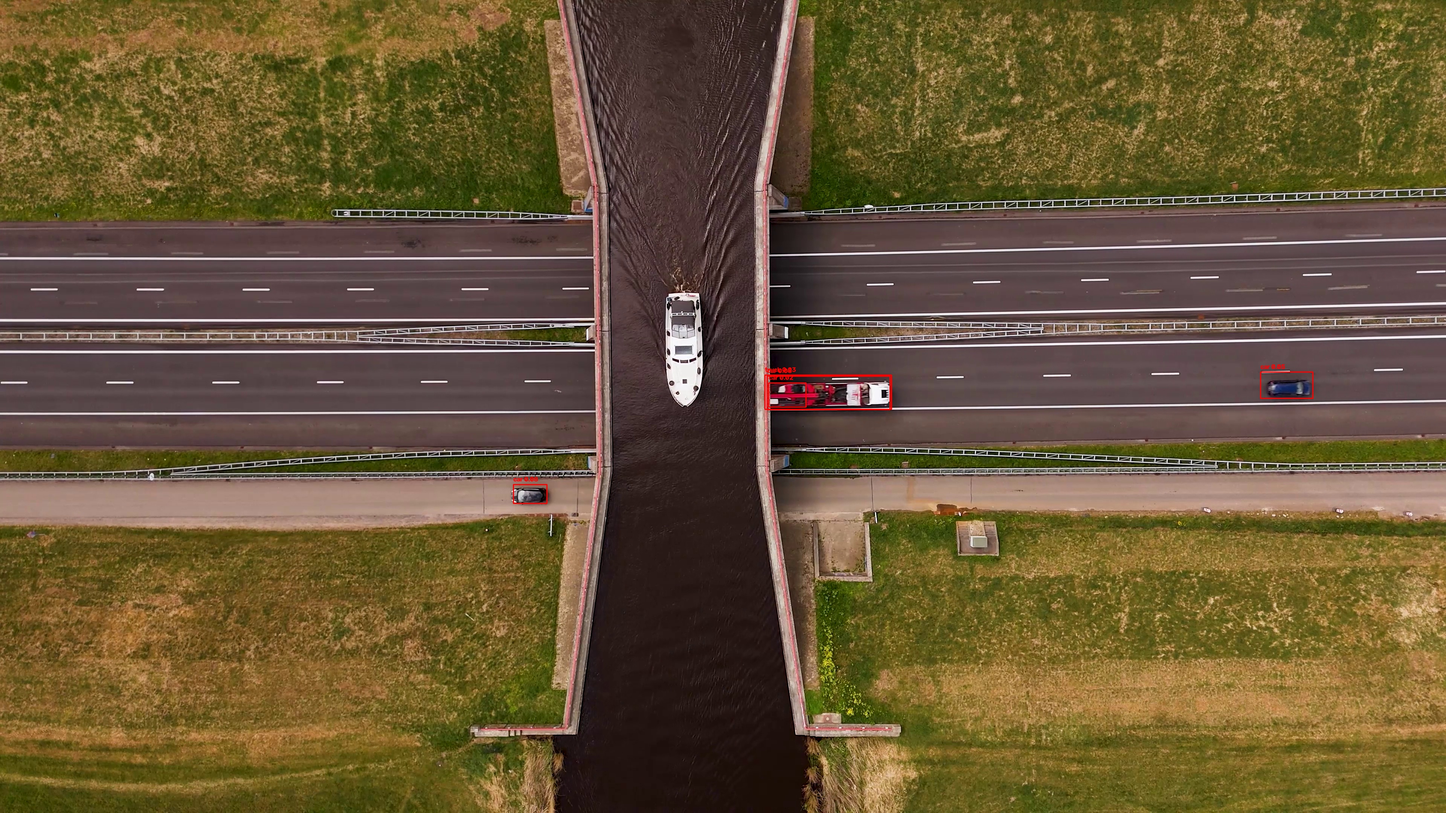
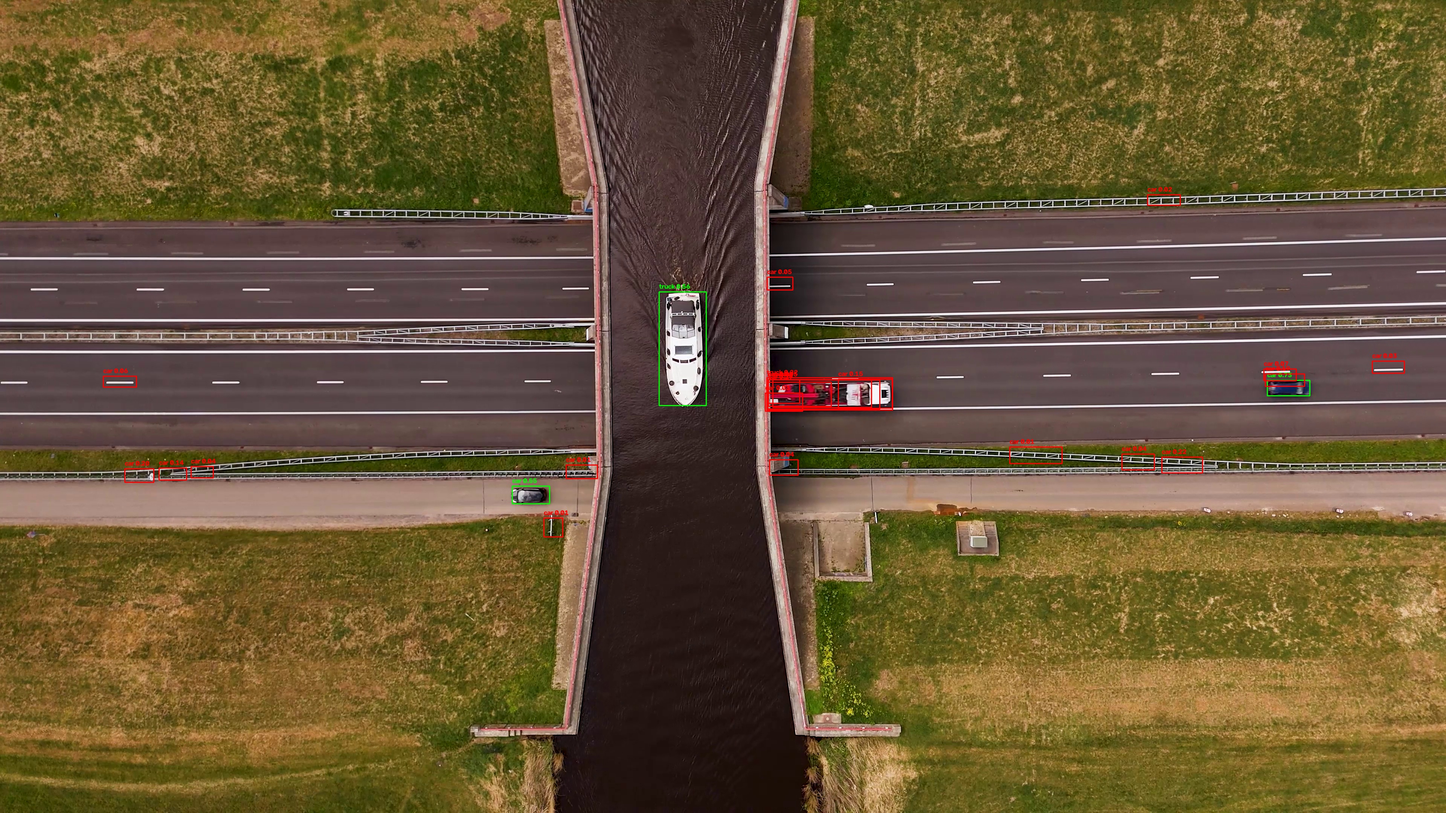
Adopt fine-tuned VisDrone model as default (Phase 15/16 findings)
Decision based on outputs/results/model_comparison.json: fine-tuning
raised overall F1 from 0.275 to 0.652 on VisDrone val (mostly recall,
0.16 -> 0.53), at effectively the same FPS (~54-56). Spot-checked on
our own clips, not just the benchmark set:
  - nadir drone clip (our documented failure case): 0 detections
    (baseline) -> 24 detections at avg conf 0.67 (fine-tuned)
  - elevated clip (main scenario): 6 -> 97 detections on the same
    sampled frames, with higher avg confidence too (0.43 -> 0.59),
    meaning recovered vehicles, not just added noise
Both clips improved with no precision regression worth mentioning, so
this isn't a marginal call. Kept the pretrained baseline weights and
class scheme documented in a config comment for anyone who wants to
switch back or compare further.

Also fixes two real bugs in generate_failure_examples.py found while
regenerating evidence with the new model: (1) vehicle class ids were
hardcoded to the old COCO scheme (1,2,3,5,7) instead of read from
config, silently breaking with the fine-tuned model's own 0-4 ids;
(2) the track-loss example hardcoded track_id=54 from one specific
prior run instead of finding a near-miss dynamically, so it now reuses
RecallChecker in a two-pass search (can't keep every 4K frame in
memory to avoid the second pass).

Updated failure-case evidence: nadir view is a genuinely mixed result
at the specific frame sampled (some vehicles now pass threshold,
[…]

diff --git a/scripts/generate_failure_examples.py b/scripts/generate_failure_examples.py
@@ -22,6 +22,7 @@ import cv2
 sys.path.insert(0, str(Path(__file__).resolve().parents[1]))
 
 from src.counting.line_counter import LineCounter
+from src.evaluation.recall_check import RecallChecker
 from src.tracking.tracker import VehicleTracker
 from src.utils.config import load_config, resolve_path
 from ultralytics import YOLO
@@ -37,6 +38,8 @@ def generate_camera_angle_example(config, out_dir: Path):
         print(f"Could not read from {video_path}, skipping camera-angle example")
         return
 
+    vehicle_class_ids = set(config["classes"]["vehicle_class_ids"])  # model's own id scheme, not hardcoded COCO ids
+
     model = YOLO(config["model"]["weights"])
     results = model.predict(frame, conf=0.01, iou=0.5, imgsz=640, device="0", verbose=False)
     r = results[0]
@@ -44,7 +47,7 @@ def generate_camera_angle_example(config, out_dir: Path):
     annotated = frame.copy()
     for box in r.boxes:
         cid = int(box.cls.item())
-        if cid not in (1, 2, 3, 5, 7):  # vehicle classes only
+        if cid not in vehicle_class_ids:
             continue
         conf = float(box.conf.item())
         x1, y1, x2, y2 = (int(v) for v in box.xyxy[0].tolist())
@@ -55,23 +58,60 @@ def generate_camera_angle_example(config, out_dir: Path):
 
     out_path = out_dir / "camera_angle_nadir_view.jpg"
     cv2.imwrite(str(out_path), annotated)
-    below_threshold = sum(
-        1 for box in r.boxes
-        if int(box.cls.item()) in (1, 2, 3, 5, 7) and float(box.conf.item()) < config["model"]["confidence"]
-    )
-    print(f"Saved {out_path} - {below_threshold} vehicle boxes found but below the "
+    vehicle_boxes = [box for box in r.boxes if int(box.cls.item()) in vehicle_class_ids]
+    below_threshold = sum(1 for box in vehicle_boxes if float(box.conf.item()) < config["model"]["confidence"])
+    print(f"Saved {out_path} - {len(vehicle_boxes)} vehicle boxes found, {below_threshold} below the "
           f"{config['model']['confidence']} confidence threshold (red = rejected, green = would pass)")
 
 
-def generate_track_loss_example(config, out_dir: Path):
-    video_path = resolve_path(config["io"]["video_path"])
+def _run_full_pass(config, video_path):
+    """One full tracker+counter pass over the video. Returns (recall_checker, counter)."""
     tracker = VehicleTracker(config)
     cap = cv2.VideoCapture(str(video_path))
     width = int(cap.get(cv2.CAP_PROP_FRAME_WIDTH))
     height = int(cap.get(cv2.CAP_PROP_FRAME_HEIGHT))
     counter = LineCounter(config, width, height)
+    recall_checker = RecallChecker(threshold_px=120)
 
-    target_id = 54
+    frame_idx = 0
+    while True:
+        ok, frame = cap.read()
+        if not ok:
+            break
+        tracked = tracker.track(frame)
+        counter.update(tracked, frame_idx)
+        recall_checker.observe(tracked, counter)
+        frame_idx += 1
+    cap.release()
+    return recall_checker, counter
+
+
+def generate_track_loss_example(config, out_dir: Path):
+    """Finds a near-miss dynamically (via the same recall-check logic
+    scripts/evaluate.py uses) rather than hardcoding a track id - which
+    model is active, and its confidence/tracking behavior, changes which
+    track (if any) ends up being the closest near-miss.
+
+    Two passes over the video rather than one: the target track id isn't
+    known until the whole video's been seen, and keeping every 4K frame
+    in memory to avoid a second pass would need tens of GB of RAM."""
+    video_path = resolve_path(config["io"]["video_path"])
+
+    recall_checker, counter = _run_full_pass(config, video_path)
+    near_misses = recall_checker.near_misses(counter)
+    if not near_misses:
+        print("No near-miss tracks found in this run - skipping track-loss example "
+              "(not necessarily a problem: it just means every track that got close to "
+              "the line was either counted or stayed far from it)")
+        return
+    target_id = near_misses[0].track_id  # closest to the line without being counted
+
+    tracker = VehicleTracker(config)
+    cap = cv2.VideoCapture(str(video_path))
+    width = int(cap.get(cv2.CAP_PROP_FRAME_WIDTH))
+    height = int(cap.get(cv2.CAP_PROP_FRAME_HEIGHT))
+    counter = LineCounter(config, width, height)  # fresh instance - tracker state doesn't carry over
+
     last_seen_frame = None
     frame_idx = 0
     while True:
@@ -84,13 +124,11 @@ def generate_track_loss_example(config, out_dir: Path):
             if obj.track_id == target_id:
                 last_seen_frame = (frame_idx, frame.copy(), obj)
         frame_idx += 1
-        if last_seen_frame and frame_idx > last_seen_frame[0] + 40:
-            break  # past the tracker's track_buffer (30 frames), so any gap this long is a real drop,
-            # not just a frame or two of missed detection while ByteTrack still holds the ID
+    cap.release()
 
     if not last_seen_frame:
-        print(f"Track {target_id} not found in this run (tracker IDs aren't guaranteed stable "
-              "across runs/versions) - skipping track-loss example")
+        print(f"Track {target_id} (identified as a near-miss in the first pass) wasn't found "
+              "in the second pass - tracker isn't deterministic run-to-run, skipping")
         return
 
     idx, frame, obj = last_seen_frame
@@ -107,8 +145,6 @@ def generate_track_loss_example(config, out_dir: Path):
     cv2.imwrite(str(out_path), annotated)
     print(f"Saved {out_path} - last confirmed sighting of track {target_id} at frame {idx}, "
           f"{abs(dist):.0f}px short of the line, confidence {obj.confidence:.2f}")
-
-    cap.release()
 
 
 def main():
